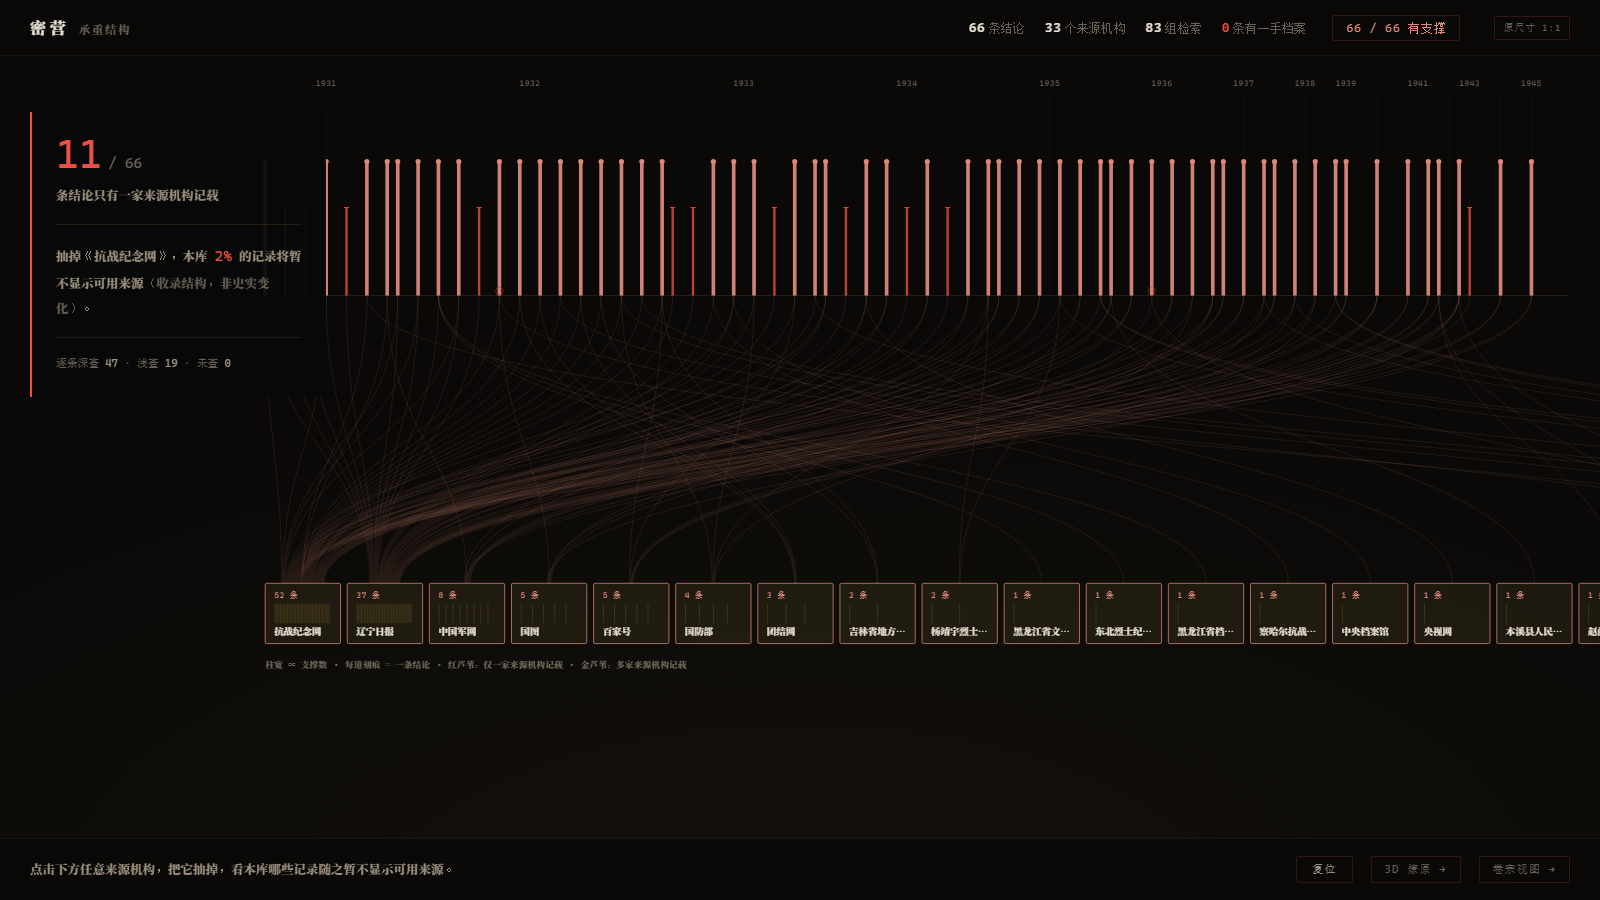
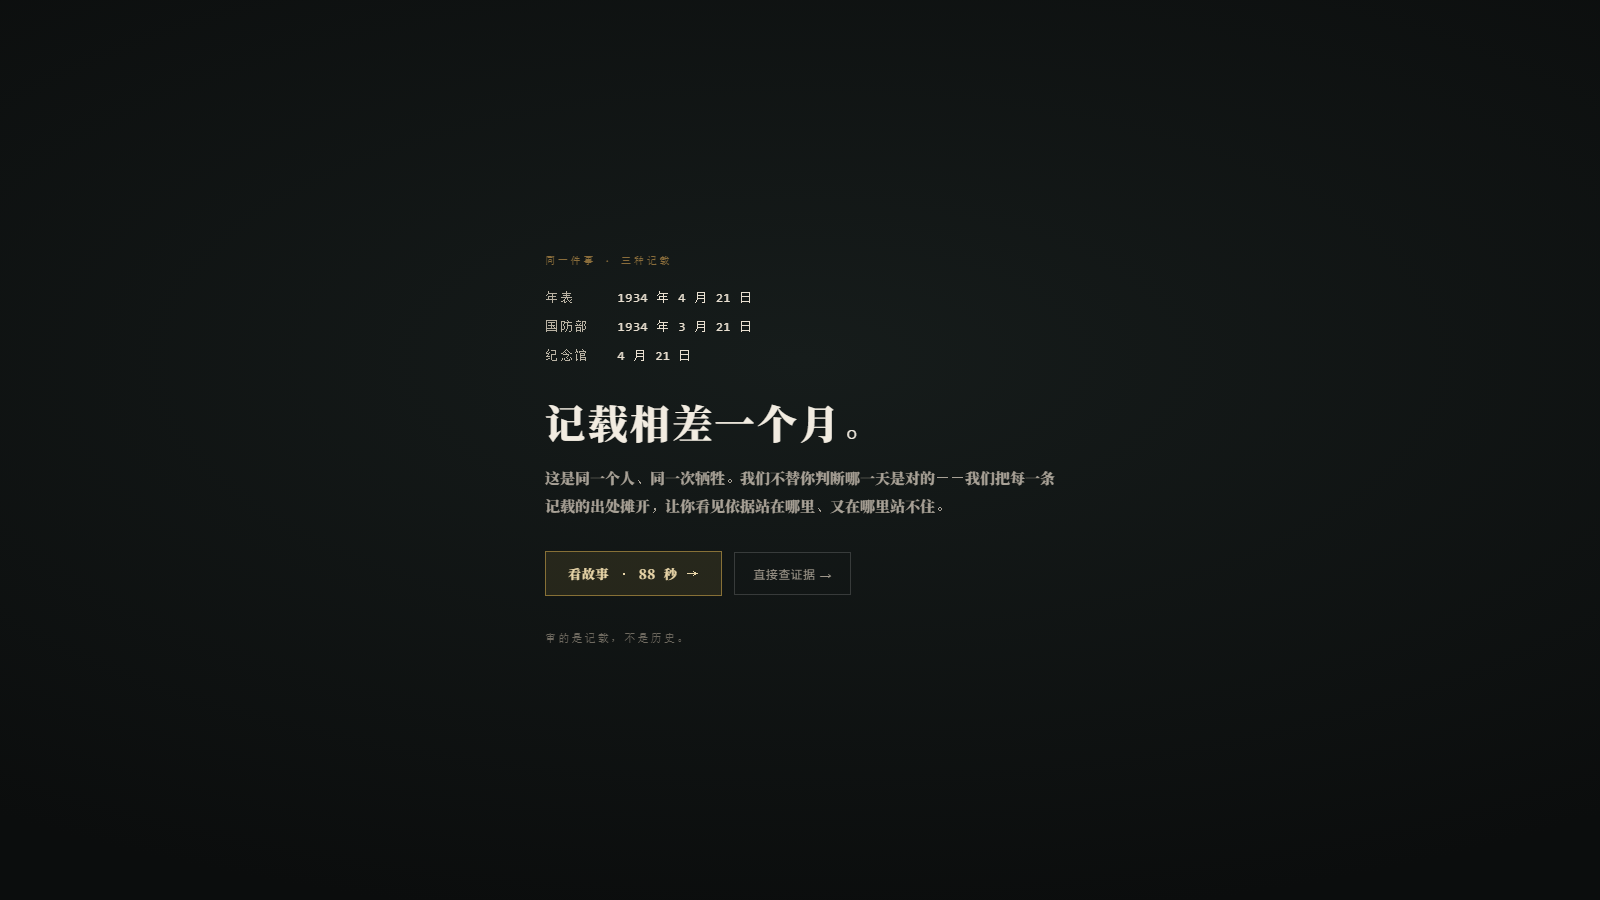
截图包：01 更新为开场层画面

diff --git a/output/review_shots/README.md b/output/review_shots/README.md
@@ -1,10 +1,10 @@
-# 评审截图包（8 张）
+# 评审截图包（9 张）
 
 版本：2026-10-18 · 与仓库提交 `adaa26b` 之后的构建产物同版。
 
 | 文件 | 内容 | 对应主张 |
 |---|---|---|
-| 01_2D承重结构.png | 66 条记载 × 33 家来源机构的支撑关系；画布按内容包围盒动态计算（2124px），全部可见 | 每一条记载都能看到它由谁支撑 |
+| 01_2D承重结构.png | 开场层：同一件事的三种记载（相差一个月）+ 两个入口；点「直接查证据」进入下方支撑关系图 | 第一眼是问题，不是数据 |
 | 02_卷宗页.png | 灯下案卷宗：拆解 → 辑录 → 对勘 → 存疑四段；13 案（8 记载相合 / 4 分歧 / 1 孤证） | 推理过程可回放，不只给结论 |
 | 03_被服厂第1幕.png | 《针线与守望》第 1 幕「密林深处，一处供给基地」 | 主故事入口：先看懂劳动，再谈证据 |
 | 04_第7幕空台.png | 第 7 幕「留下来的针脚」：人物与布料均已移出画面，工作台真空 | 画面状态与字幕一致，不靠镜头遮掩 |
